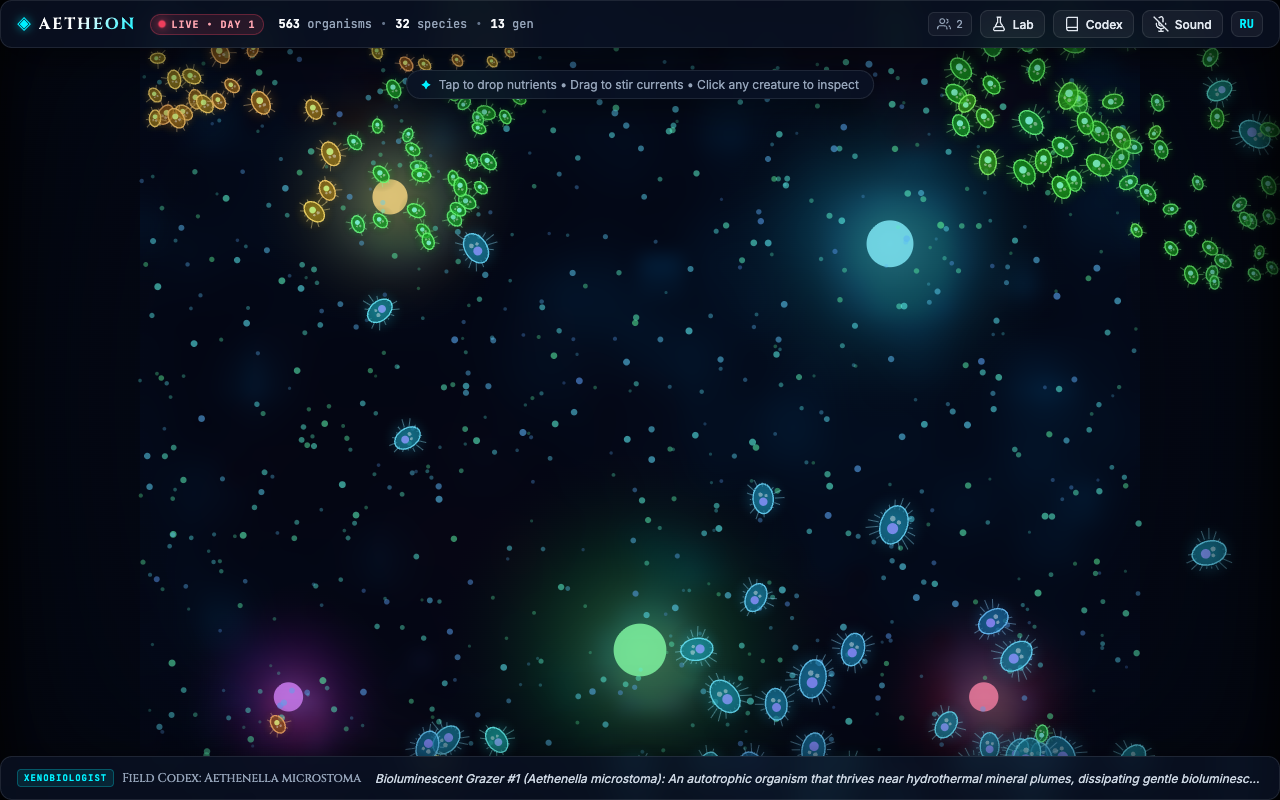
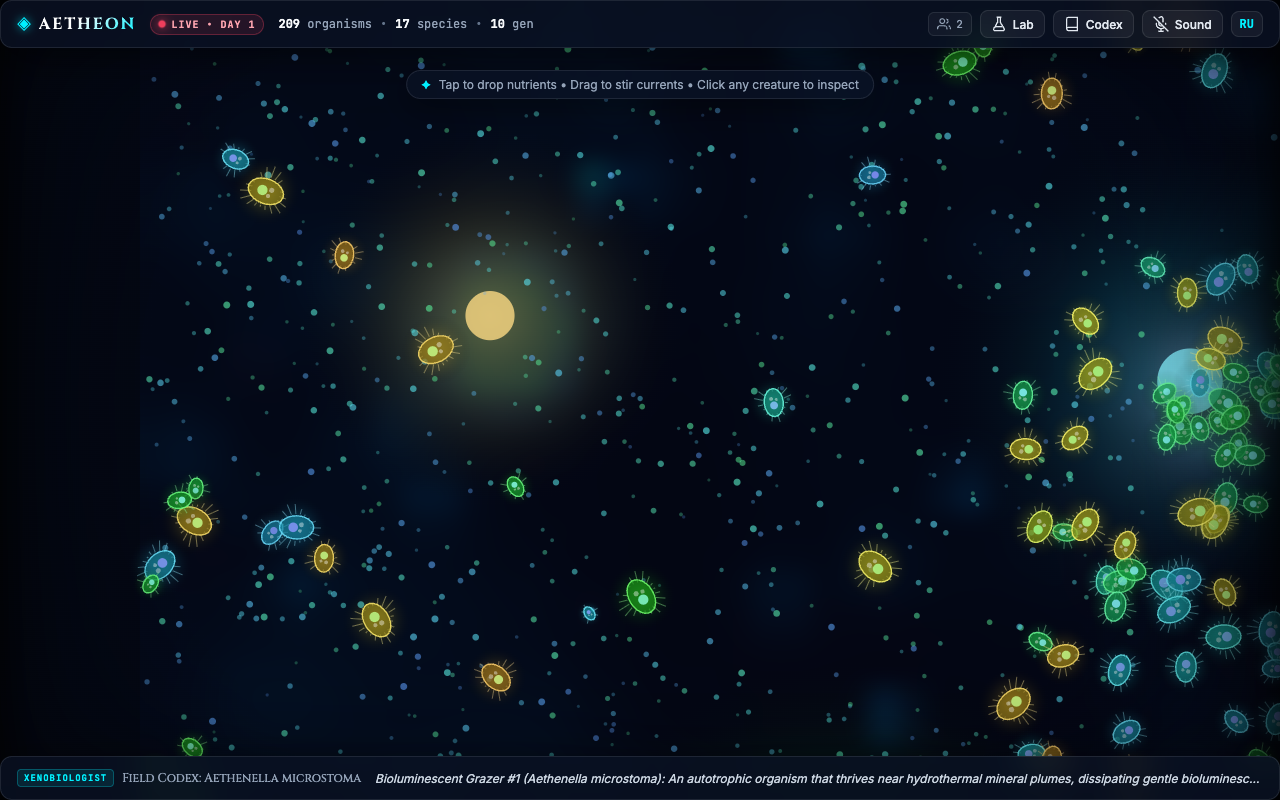
fix(sync): sync dynamic worldSize across socket, app, and controls; enforce 280 max organisms

diff --git a/public/js/ui/controls.js b/public/js/ui/controls.js
@@ -42,9 +42,10 @@ export class InputController {
         // Break tracking if user manual pans
         this.renderer.camera.trackedEntityId = null;
 
+        const ws = this.renderer.worldSize || 1400.0;
         const zoom = this.renderer.camera.zoom;
-        this.renderer.camera.targetX = (this.camStartX - dx / zoom + 1000) % 1000;
-        this.renderer.camera.targetY = (this.camStartY - dy / zoom + 1000) % 1000;
+        this.renderer.camera.targetX = (this.camStartX - dx / zoom + ws) % ws;
+        this.renderer.camera.targetY = (this.camStartY - dy / zoom + ws) % ws;
       }
     });
 
@@ -98,9 +99,10 @@ export class InputController {
     }
 
     // 2. Otherwise, drop nutrient into the ocean!
+    const ws = this.renderer.worldSize || 1400.0;
     const worldPt = this.renderer.screenToWorld(screenX, screenY);
-    const wx = (worldPt.x + 1000) % 1000;
-    const wy = (worldPt.y + 1000) % 1000;
+    const wx = (worldPt.x + ws) % ws;
+    const wy = (worldPt.y + ws) % ws;
 
     // Send to server
     this.client.sendInteraction('nutrient_drop', wx, wy);

diff --git a/server/network/socket.js b/server/network/socket.js
@@ -1,4 +1,5 @@
 import { WebSocketServer, WebSocket } from 'ws';
+import { CONFIG } from '../config.js';
 
 export class NetworkManager {
   constructor(server, engine) {
@@ -10,13 +11,14 @@ export class NetworkManager {
   }
 
   setupListeners() {
-    this.wss.on('connection', (ws) => {
+    this.wss.on('connection', (ws, req) => {
       this.clients.add(ws);
+      console.log(`[WS] Client connected from ${req.socket.remoteAddress}. Active clients: ${this.clients.size}`);
 
       // Send initial hand-shake state
       const initialPayload = {
         type: 'init',
-        worldSize: 1000.0,
+        worldSize: CONFIG.WORLD_SIZE,
         vents: this.engine.grid.vents,
         stats: this.engine.getStats(),
         journal: this.engine.naturalist.getRecentEntries(10),
@@ -39,6 +41,7 @@ export class NetworkManager {
 
       ws.on('close', () => {
         this.clients.delete(ws);
+        console.log(`[WS] Client disconnected. Active clients: ${this.clients.size}`);
         this.broadcastVisitorCount();
       });
 

diff --git a/public/js/app.js b/public/js/app.js
@@ -88,8 +88,13 @@ class AetheonApp {
   }
 
   connectWebSocket() {
-    const protocol = window.location.protocol === 'https:' ? 'wss:' : 'ws:';
-    const wsUrl = `${protocol}//${window.location.host}`;
+    let wsUrl;
+    if (window.location.protocol === 'file:' || !window.location.host) {
+      wsUrl = 'ws://localhost:3000';
+    } else {
+      const protocol = window.location.protocol === 'https:' ? 'wss:' : 'ws:';
+      wsUrl = `${protocol}//${window.location.host}`;
+    }
 
     console.log(`[Aetheon] Connecting to canonical world stream: ${wsUrl}`);
     this.socket = new WebSocket(wsUrl);
@@ -121,6 +126,10 @@ class AetheonApp {
 
   handleMessage(msg) {
     if (msg.type === 'init') {
+      if (msg.worldSize) {
+        this.renderer.worldSize = msg.worldSize;
+        if (this.renderer.particles) this.renderer.particles.worldSize = msg.worldSize;
+      }
       this.renderer.setVents(msg.vents);
       if (msg.thumbnail) this.renderer.updateThumbnail(msg.thumbnail);
       this.updateStats(msg.stats);

diff --git a/server/server.js b/server/server.js
@@ -27,6 +27,7 @@ const MIME_TYPES = {
 const server = http.createServer((req, res) => {
   let reqPath = req.url.split('?')[0];
   if (reqPath === '/' || reqPath === '') reqPath = '/index.html';
+  console.log('[HTTP]', req.method, reqPath);
 
   const filePath = path.join(PUBLIC_DIR, reqPath);
 
